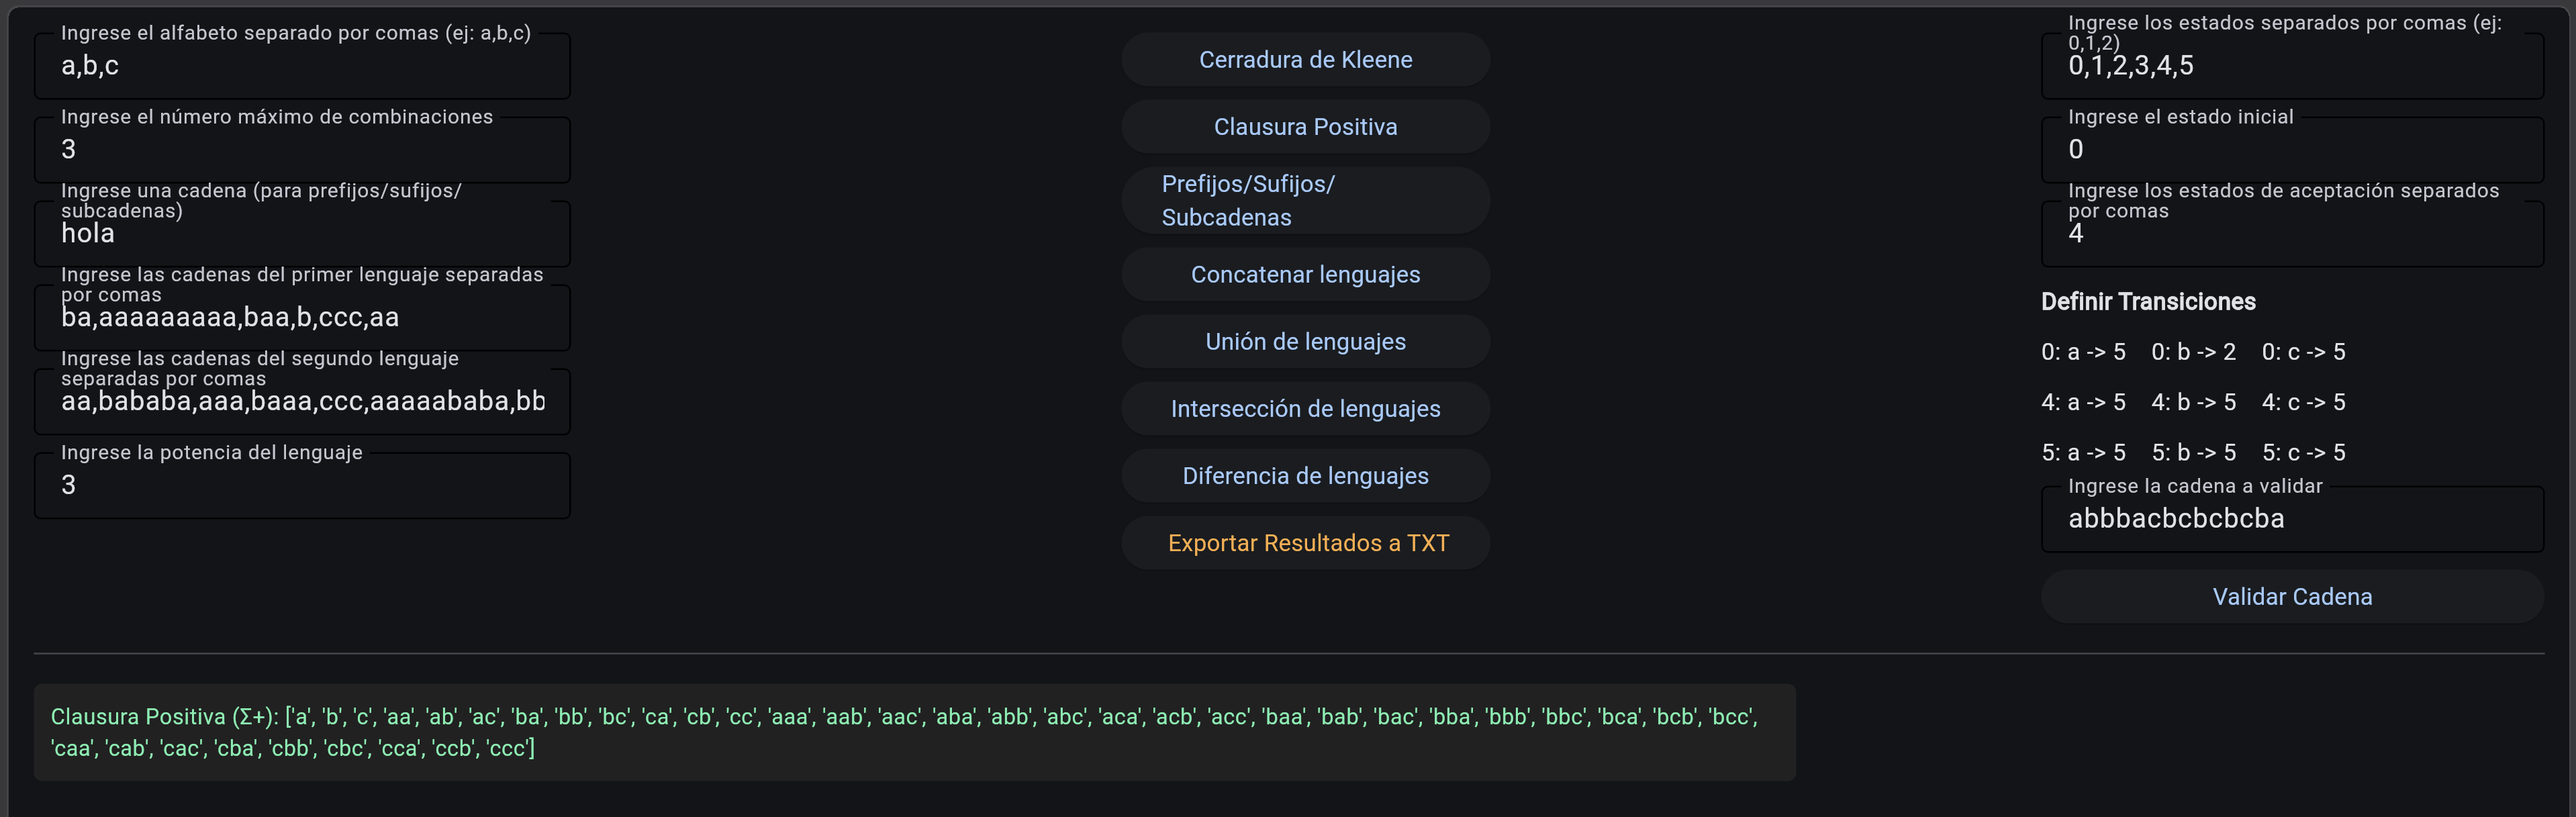
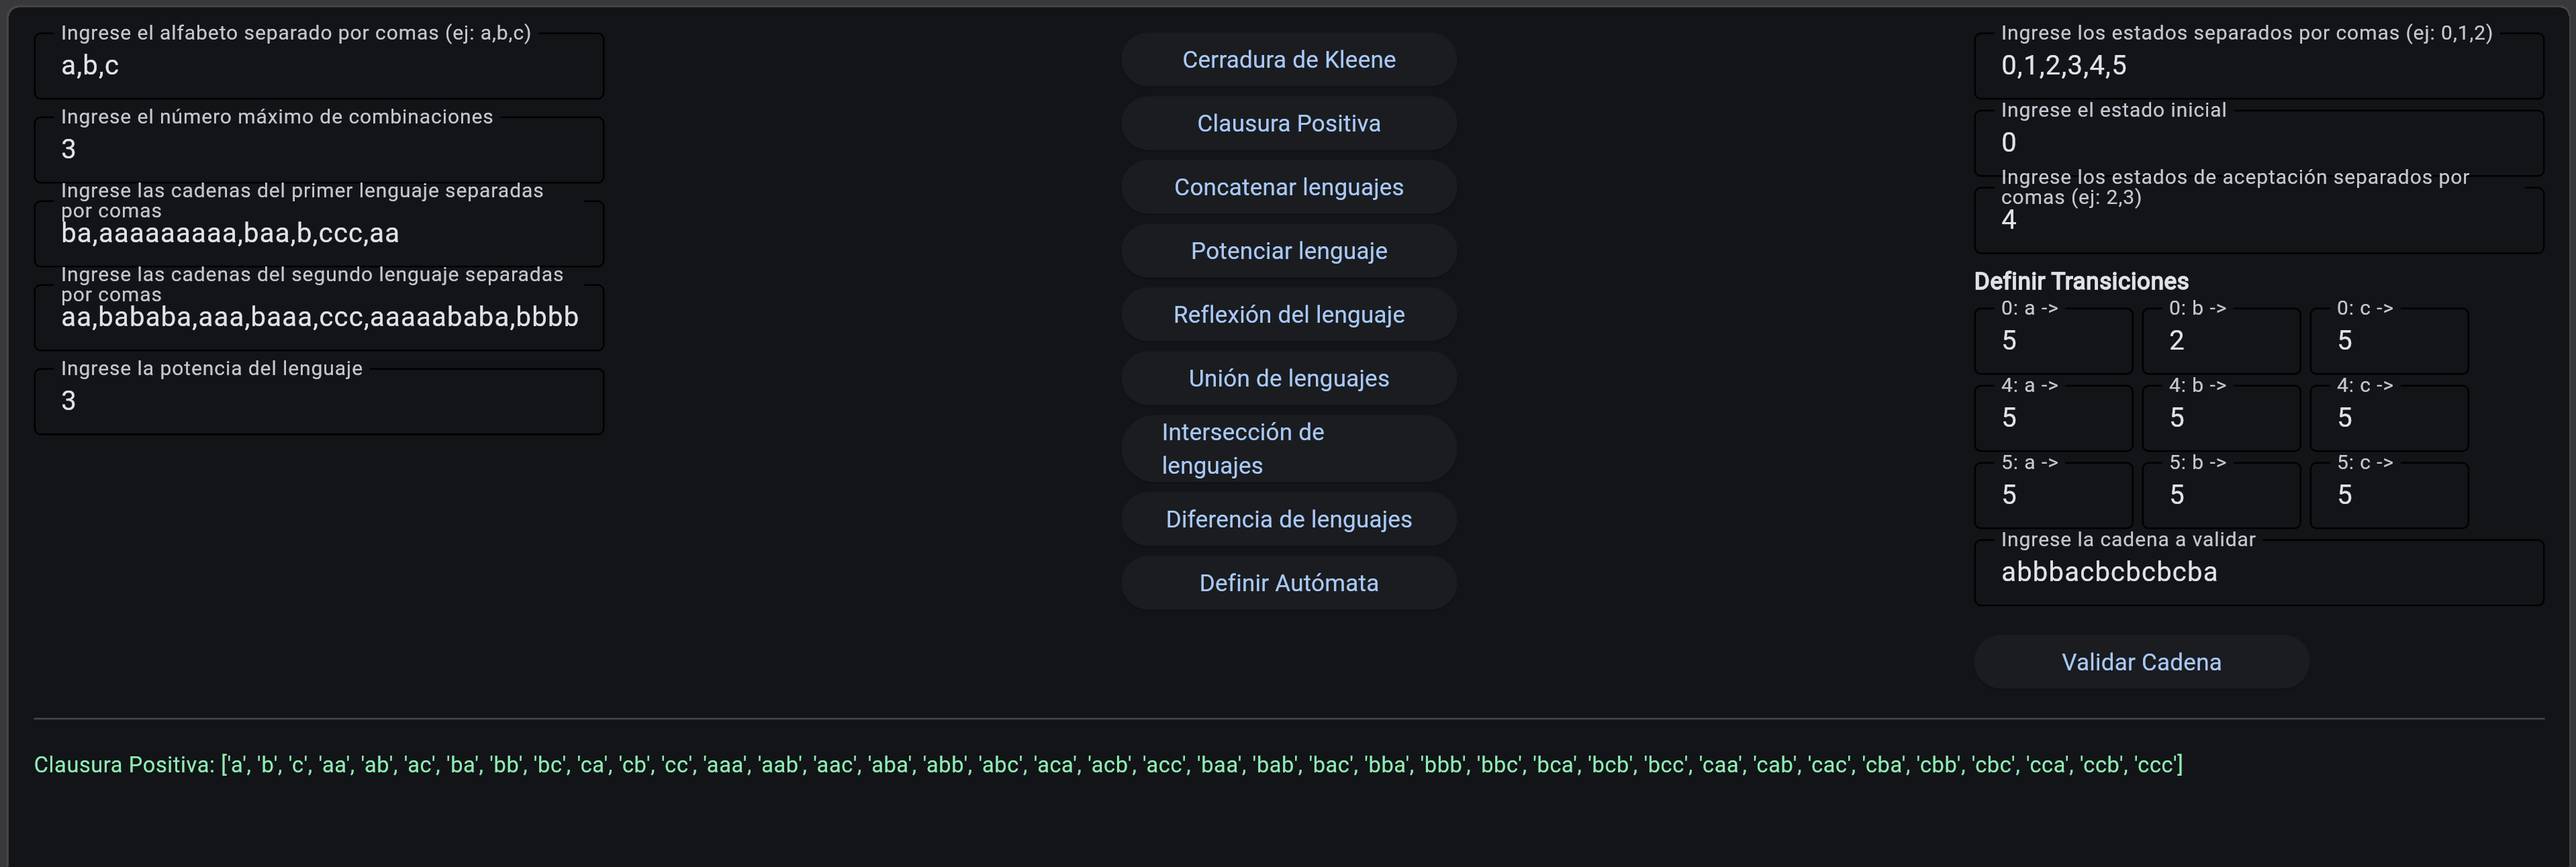
feat: update interface screenshots for improved documentation clarity

diff --git a/docs/05-aplicacion.md b/docs/05-aplicacion.md
@@ -49,9 +49,10 @@ def generar_cerradura_positiva(alfabeto: set[str], n_max: int) -> list[str]:
     return [w for w in kleene if w != ""]
 ```  
 ### 1.2 Capturas de la interfaz y su funcionamiento
- ![Git Log Graph](../evidencias/app/Imagen9.png)
- ![Git Log Graph](../evidencias/app/Imagen9.png)
- ![Git Log Graph](../evidencias/app/Imagen9.png)
+ ![Git Log Graph](../evidencias/app/Imagen10.png)
+ ![Git Log Graph](../evidencias/app/Imagen11.png)
+ ![Git Log Graph](../evidencias/app/Imagen12.png)
+ ![Git Log Graph](../evidencias/app/Imagen13.png)
 ## 2. Salidas de la Suite de Pruebas (PyTest)
 
 ### 2.1 Salida Python 3.11 (`py311`), Python 3.12 (`py312`) y Python 3.13 (`py313`).
